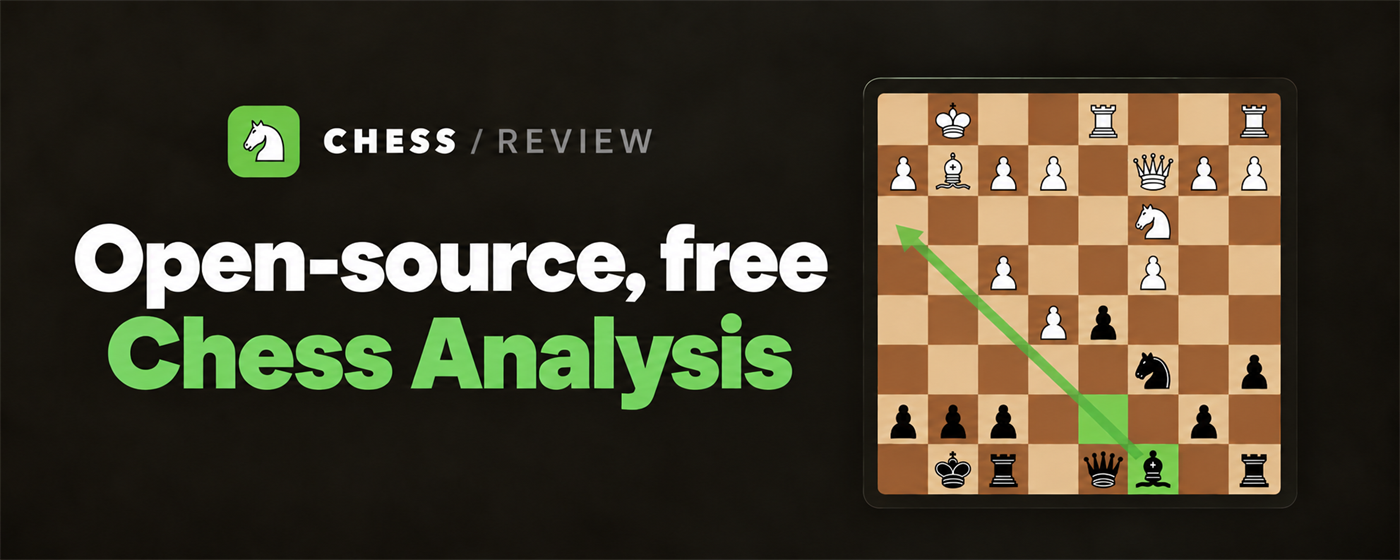
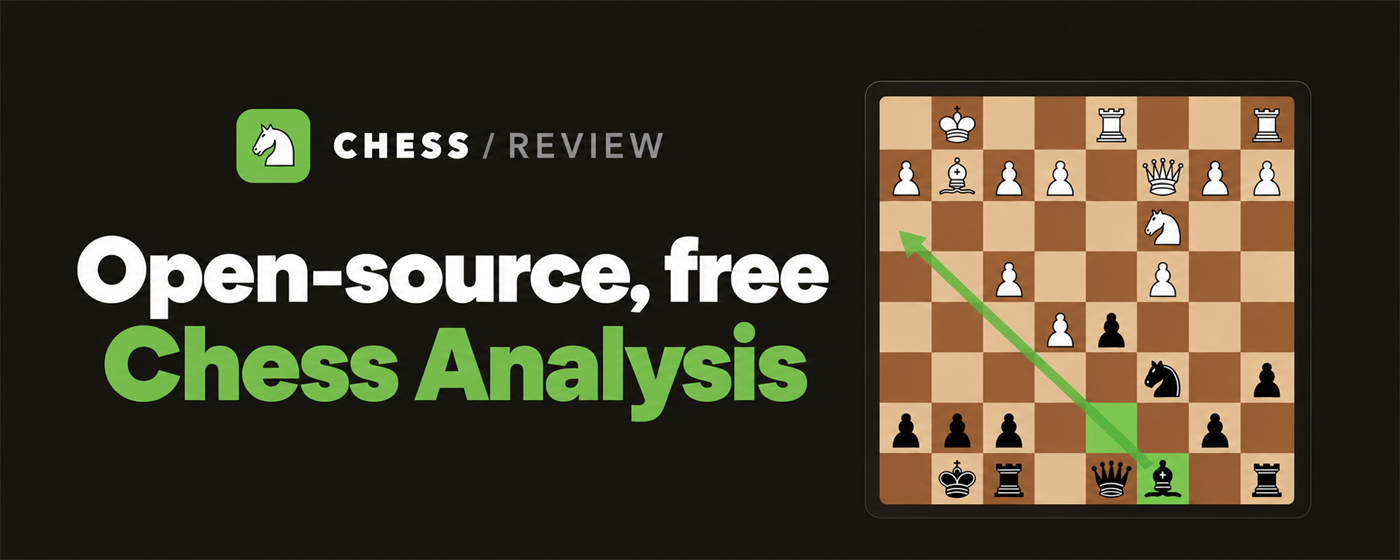
marketing: replace promo backdrops using listing palette
Replace the mottled promo backgrounds with smooth dark charcoal based on the Accuracy and Move Quality listing. Restore the preferred small tile typography, make Free white, and bring both green headlines toward the shared reference palette.

Changed region(s): [[0.0307, 0.1214, 0.9521, 0.9107], [0.1536, 0.1821, 0.4914, 0.3339]]

diff --git a/marketing/chrome-web-store/promo tiles/README.md b/marketing/chrome-web-store/promo tiles/README.md
@@ -43,13 +43,21 @@ Marquee prompt:
 
 These sibling versions preserve the corrected originals above. The small tile
 uses three lines: "Open-source" in white, "Free Chess" with white "Free" and
-green "Chess", and green "Analysis". Naturally proportioned, less inflated
-lettering and clear spacing take priority over matching line widths exactly.
-The small tile's green is visually matched to the marquee. The marquee uses
+green "Chess", and green "Analysis". The larger bold typography and layout use
+the user's preferred clipboard image as the small tile edit target. The marquee uses
 "Open-source, free" in white above "Chess Analysis" in
 green, with both lines centered on the same axis. The logo is centered above
-the enlarged headline, and the board sits farther right. Both backgrounds use
-the original tiles as references for darker charcoal with less brown haze.
+the enlarged headline, and the board sits farther right. Both backgrounds are
+replaced using `../Marketing images v2/accuracy-and-move-quality.png` as the
+palette reference. Sampled background target is #191712 (RGB 25,23,18), with
+smooth near-uniform charcoal instead of the previous mottled brown texture.
+The shared green headline target is #7cb94d (RGB 124,185,77), sampled from the
+reference headline. These are generation targets; output samples are reviewed
+for a visual match rather than assuming exact color reproduction.
+Final sampled headline interiors are approximately RGB 119,197,76 (small) and
+118,188,76 (marquee). Both use the reference green family, but the small remains
+slightly brighter. Background samples are approximately RGB 21-22,19-20,14-15
+(small) and 22-24,20-22,15-17 (marquee).
 Both exports were
 created with built-in imagegen, resampled with System.Drawing HighQualityBicubic,
 decoded to confirm PNG format and dimensions, and visually checked. The original
@@ -57,21 +65,16 @@ tile hashes were checked to confirm neither original changed.
 
 Small variant prompt:
 
-> Use the current small variant as edit target, original small tile as dark
-> background and typography reference, and marquee as green color reference.
-> Keep exactly three lines: Open-source / Free Chess / Analysis. Open-source and
-> Free must be white; Chess and Analysis green. Use clean heavy geometric sans
-> serif with naturally proportioned stable letterforms, clear counters and
-> spacing, no horizontal squeezing or inflated rounded shapes. A targeted
-> typography refinement requests Inter Bold 700 / ExtraBold 800-style lettering,
-> smaller calmer type about 175-190 px wide and natural spacing between Free and
-> Chess. Approximate sizes are 25 px, 32 px and 34 px for the three lines, with
-> green #7dc34f as a visual target from the marquee. Similar line
-> widths are secondary to good typography. Slightly darken the backdrop toward
-> the original near-black warm charcoal and reduce brown haze. Preserve the logo,
-> board placement, pieces, green c8 bishop, ordinary c6 knight square, absent e6
-> pawn, green d7 and c8-h3 arrow. No accuracy panel, added text or watermark.
-> Keep the 440:280 aspect ratio.
+> Use the user's preferred clipboard image as the edit target and the Accuracy
+> & Move Quality listing image as the palette reference. Preserve the supplied
+> larger bold typography and its three lines: Open-source / Free Chess /
+> Analysis. Change only Free to white; Open-source stays white, Chess and
+> Analysis use the shared green target #7cb94d. Completely remove the old
+> textured background and replace with smooth premium dark charcoal #191712,
+> matching the reference. No brown haze, mottling, vignette or gradient. Preserve
+> the logo, board placement, pieces, green c8 bishop, ordinary c6 knight square,
+> absent e6 pawn, green d7 and c8-h3 arrow. No accuracy panel, extra copy or
+> watermark. Keep the 440:280 aspect ratio.
 
 Marquee variant prompt:
 
@@ -81,10 +84,12 @@ Marquee variant prompt:
 > Preserve the background, pieces, highlights and corrected bishop arrow.
 > No accuracy panel, extra copy or watermark. Keep the 1400:560 aspect ratio.
 
-Marquee background refinement prompt:
+Marquee background replacement and palette prompt:
 
-> Use the current marquee variant as edit target and original marquee only as
-> backdrop reference. Slightly darken the outer background to near-black warm
-> charcoal, reduce brown haze and preserve subtle texture. Leave foreground
-> layout, wording, colors, pieces and highlights unchanged. No new gradient or
-> lighting.
+> Use the current marquee as the foreground/layout target and the Accuracy &
+> Move Quality listing image as palette reference. Completely replace the old
+> textured backdrop with smooth near-uniform premium dark charcoal #191712.
+> Remove old brown haze and mottling, with no vignette or gradient. Use shared
+> green #7cb94d for the headline. Preserve wording, typography, logo placement,
+> board location, size, pieces and corrected arrow. No extra copy or watermark.
+> Keep the 1400:560 aspect ratio.
